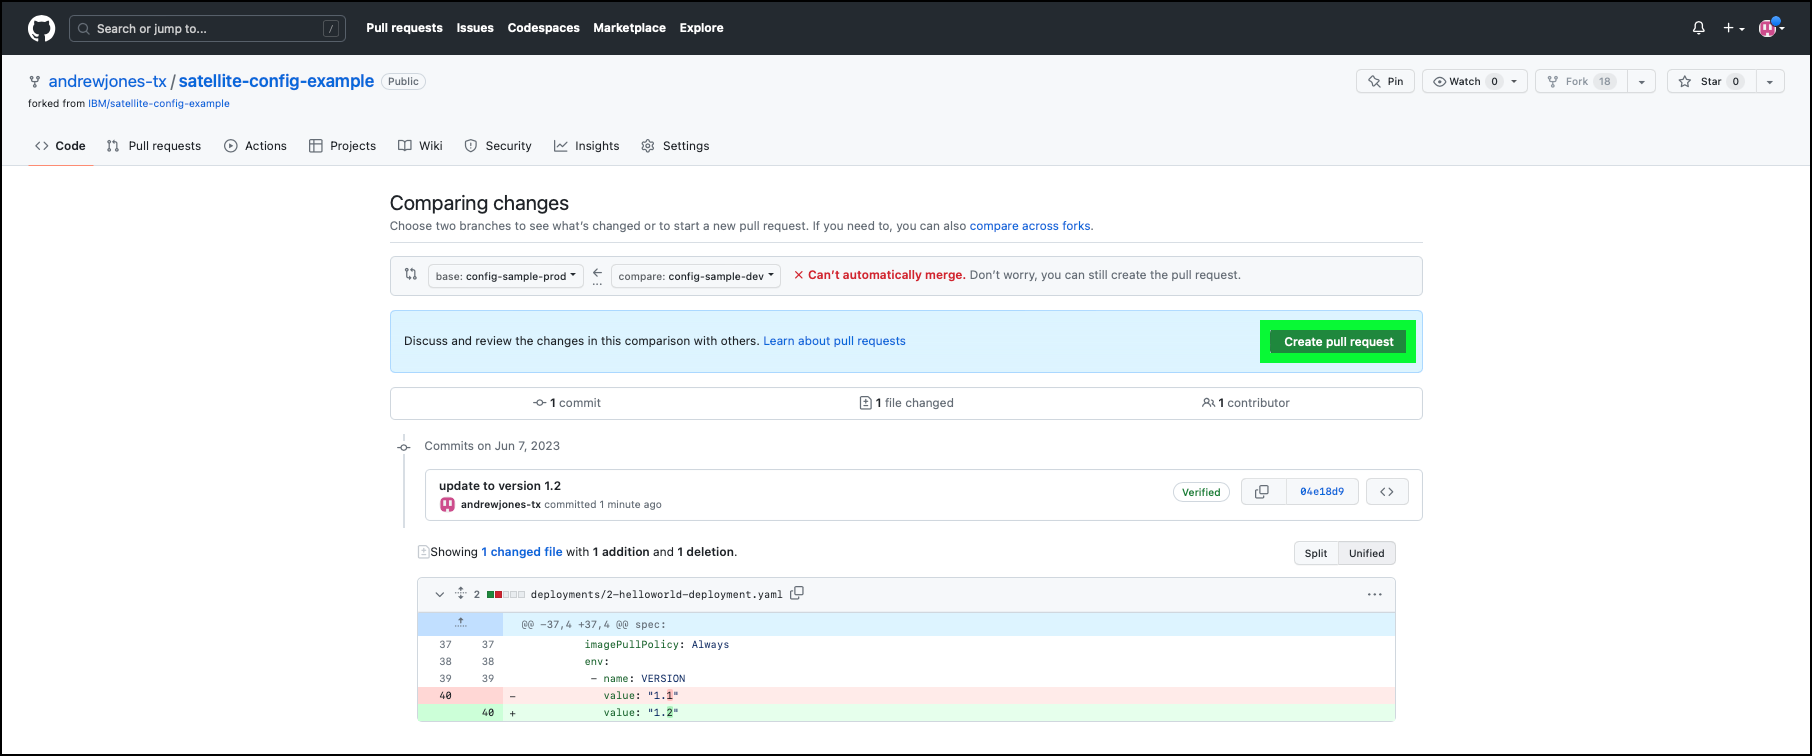
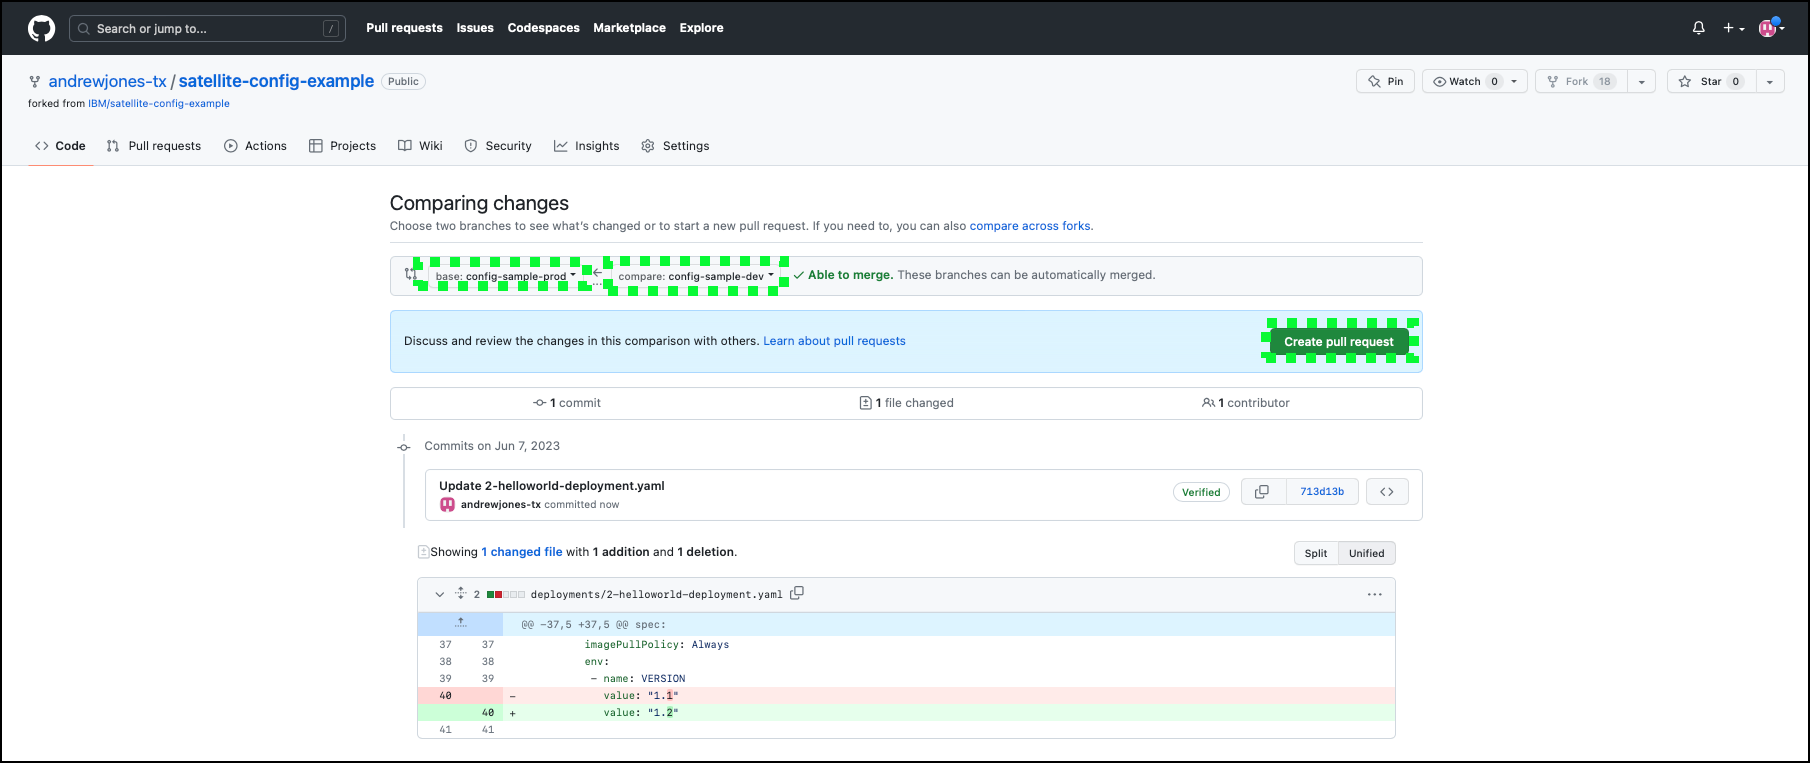
draft of deploy demo and images

diff --git a/docs/4demo/04.03 DeployDemo.md b/docs/4demo/04.03 DeployDemo.md
@@ -211,10 +211,35 @@ As part of the DevOps process, the next step after modifying and testing any cha
 
 ![](_attachments/github-CreatePullRequestButton2.png)
 
-36. Click the **Resolve conflicts** button.
+36. Click the **Merge pull request** button.
 
-![](_attachments/github-ResolveConflictsButton.png)
+![](_attachments/github-MergePullRequest.png)
 
-37. 
--------
+37. Click the **Confirm merge** button.
+
+![](_attachments/github-ConfirmMerge.png)
+
+Now that the merge has been performed in GitHub, the changes will be propagated to the {{ clusterGroups.production }} cluster group via the **Satellite config** subscription.
+
+38. Return to the OpenShift web console for the **{{ sat.cluster_name }}** cluster (**production**) and click the middle of the **helloworld-app**.
+
+![](_attachments/openShiftWC-SampleAppDevOpenDetails.png)
+
+A side window will open with the details of the sample application's deployment.
+
+![](_attachments/openShiftWC-SampleAppDevDeploymentDetails.png)
+
+Just as observed with the **development** copy of the sample application, the **production** copy will be updated. A new pod will be created and the old one will be removed. It may take a full 5 minutes before the update occurs.  
+
+39. Click the route link ![](_attachments/openShiftWC-RouteLinkIcon.png) icon to open the web page front end to the deployed application in the **{{ sat.cluster_name }} cluster.
+
+![](_attachments/openShiftWC-SampleAppDeployment.png)
+
+Notice the string displayed should reflect the change made from the edit of the **2-helloworld-deployment.yaml**.
+
+![](_attachments/openShiftWC-SampleAppWebPage2.png)
+
+That concludes to demonstration of **Satellite config** and how it can be used in conjunction with GitHub and a DevOps process.
+
+
 Continue to the next section to learn how to complete the IBM Cloud Satellite Level 3 learning plan.
